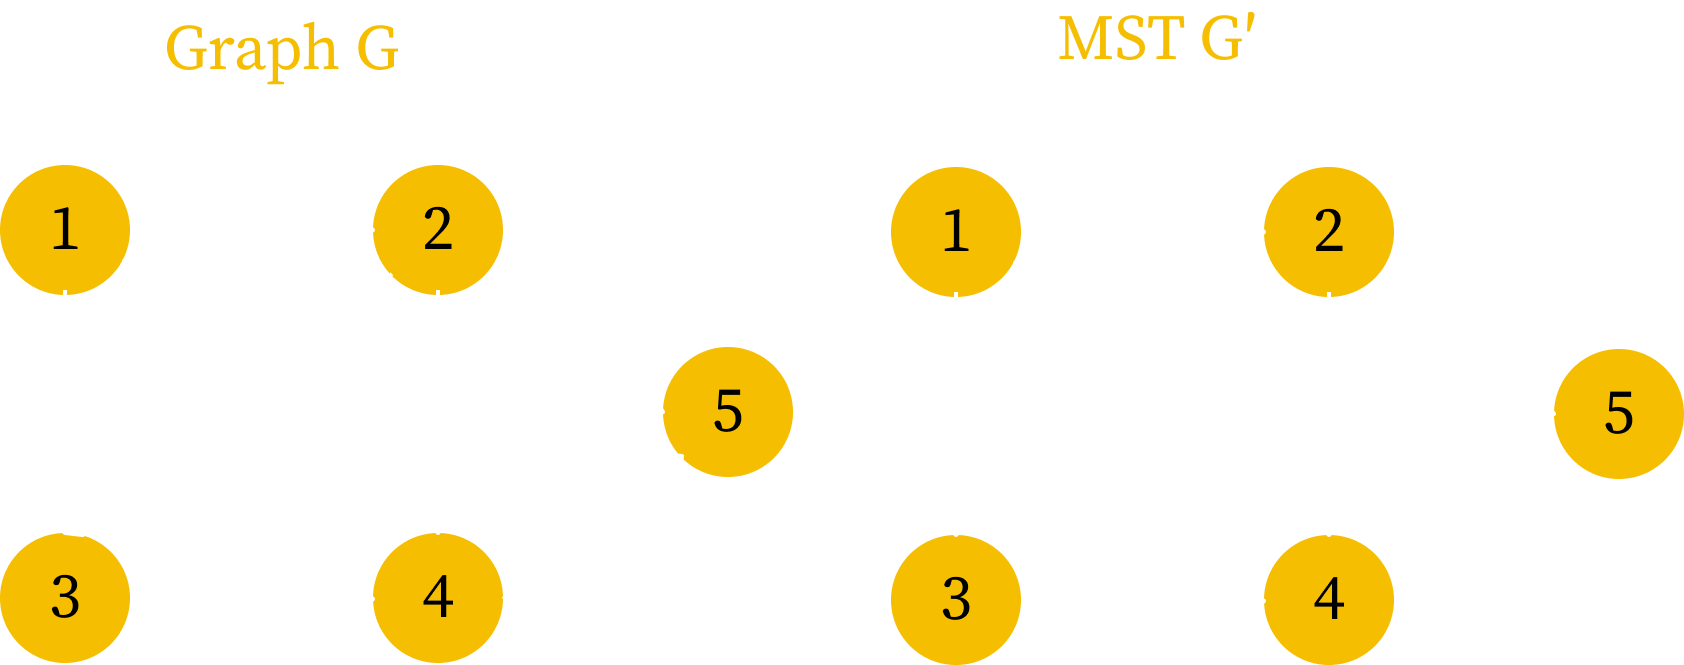
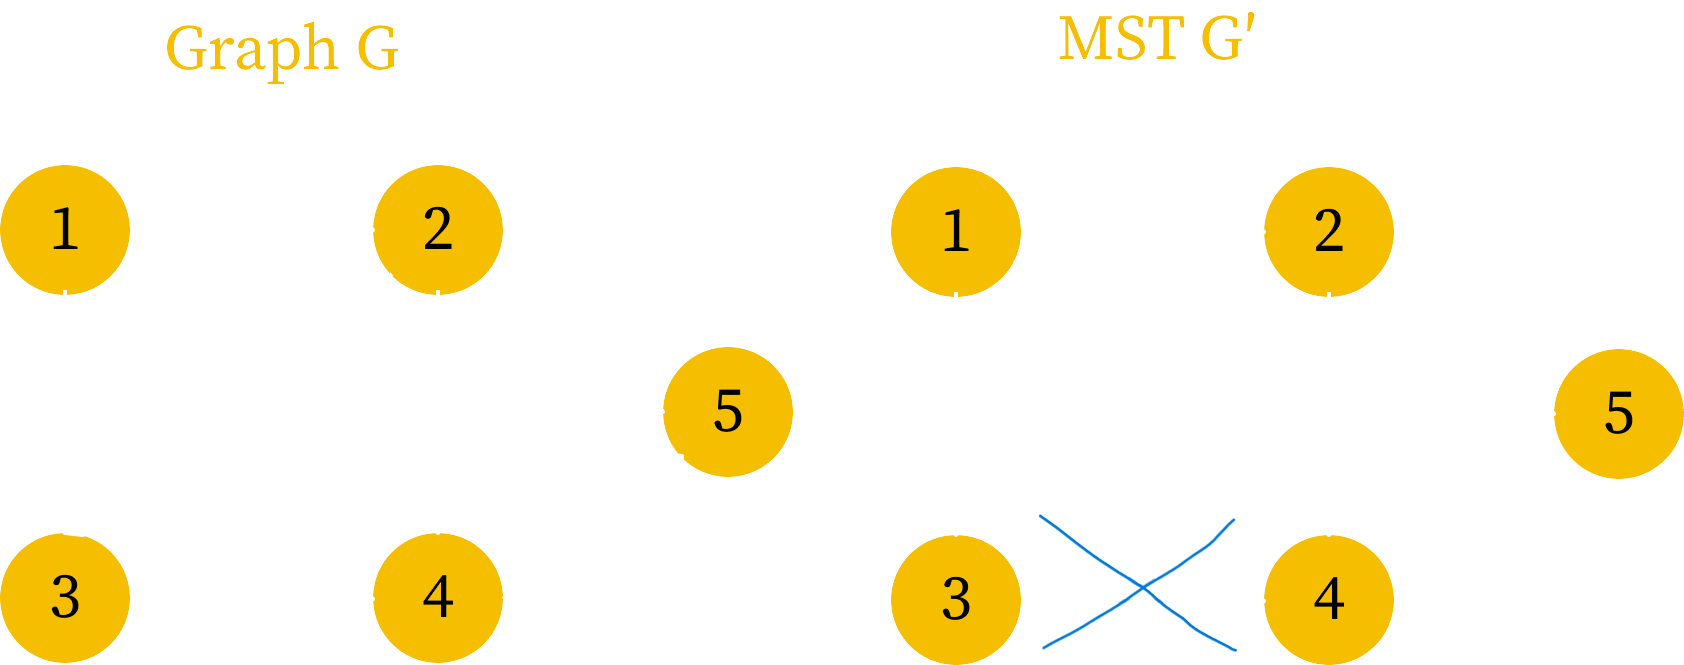
Backup of Obsidian Vault on 14-05-24 : 02:18:48 from SamPC | 2 files changed
Details:
M Images/MST Example 2.png content/Computer Science/Algorithms & Data Structures Analysis/Notes/10.1 Minimum Spanning Trees.md

diff --git a/content/Computer Science/Algorithms & Data Structures Analysis/Notes/10.1 Minimum Spanning Trees.md b/content/Computer Science/Algorithms & Data Structures Analysis/Notes/10.1 Minimum Spanning Trees.md
@@ -37,9 +37,9 @@
 >
 > In this example, the original graph has all possible connections with a total cost/weight of 25.
 >
-> The Minimum Spanning Tree (MST) includes the edges (1, 2) with cost 1, (2, 4) with cost 2, (1, 3) with cost 3, (3, 4) with cost 3, and (1, 5) with cost 5. The total cost/weight of this MST is 14, the minimum among all possible spanning trees.
+> The Minimum Spanning Tree (MST) includes the edges (1, 2) with cost 1, (2, 4) with cost 2, and (1, 5) with cost 5. The total cost/weight of this MST is 11, the minimum among all possible spanning trees.
 >
-> By selecting this subset of edges, we can connect all 5 computers while minimizing the total infrastructure cost. The MST has a lower cost of 14 compared to 25 for the original graph.
+> By selecting this subset of edges, we can connect all 5 computers while minimizing the total infrastructure cost. The MST has a lower cost of 11 compared to 25 for the original graph.
 
 > [!consider] Cut Property
 >
